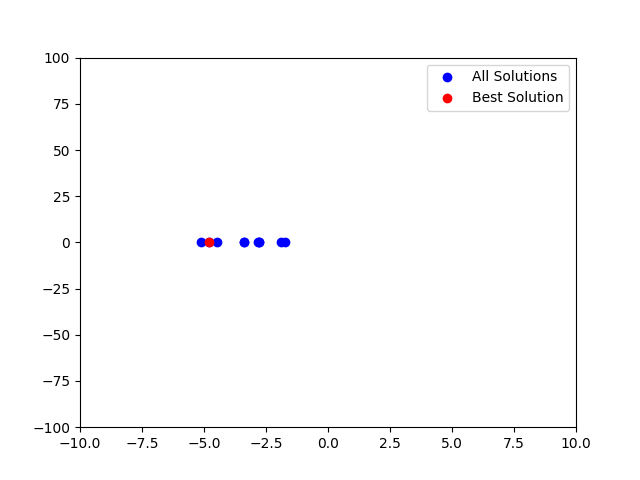
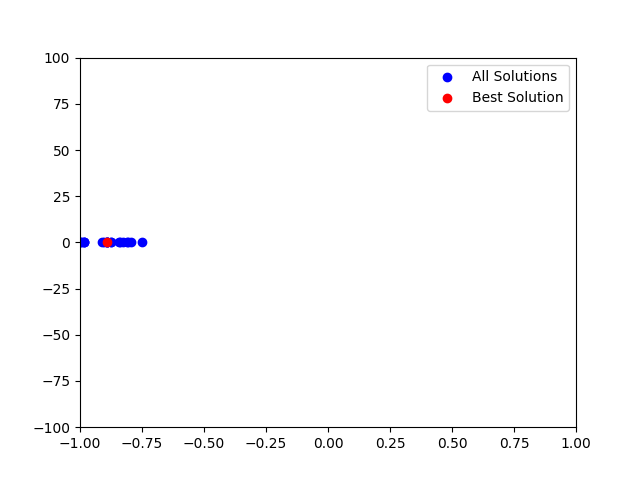
Fixed the Logging Issue
Fixed the output logging issue, tried changing best solution to the one with lower solution value, however it is only better at reconstruction of image, after rescaling it is worse

diff --git a/recursive_attack.py b/recursive_attack.py
@@ -25,11 +25,11 @@ def inverse_udldu(udldu):
         return loss
 
     # Define bounds to -100 and 100
-    bounds = [(-10, 10)]  # Adjusted bounds
+    bounds = [(-1, 1)]  # Adjusted bounds
 
     iteration_count = 0
-    min_iterations = 10
-    max_iterations = 100
+    min_iterations = 20
+    max_iterations = 1000
     convergence_iteration = None
 
     # Initialize the plot
@@ -42,9 +42,10 @@ def inverse_udldu(udldu):
 
     best_solution = None
     best_objective = float('inf')
+    best_solution_value = float('inf')  # Track the best solution based on value
 
     def callback_function(xk, convergence):
-        nonlocal iteration_count, convergence_iteration, best_solution, best_objective
+        nonlocal iteration_count, convergence_iteration, best_solution, best_objective, best_solution_value
         iteration_count += 1
         # print(f"Iteration: {iteration_count}")
         current_objective = objective_quantile(xk)
@@ -57,6 +58,13 @@ def inverse_udldu(udldu):
         if current_objective < best_objective:
             best_solution = xk
             best_objective = current_objective
+
+        # Update the best solution based on the current solution's absolute value
+        # In this approach the reconstructed image is better than the other approach (loss comparision), however it is worse after rescaling
+        # if abs(xk[0]) < best_solution_value:
+        #     best_solution = xk
+        #     best_solution_value = abs(xk[0])
+        #     best_objective = current_objective
 
 
         # Update the plot with the best solution
@@ -92,27 +100,6 @@ def inverse_udldu(udldu):
 
         return False
 
-        # def callback_function(xk, convergence):
-    #     nonlocal iteration_count
-    #     iteration_count += 1
-    #     print(f"Iteration: {iteration_count}")
-    #
-    #     # Update the plot with the best solution
-    #     ax.clear()
-    #     ax.set_xlim(bounds[0])
-    #     ax.set_ylim([-100, 100])  # Adjust as necessary for your specific problem
-    #     ax.scatter(xk[0], objective_quantile(xk), color='red', label='Best Solution')
-    #     ax.legend()
-    #     plt.pause(0.1)
-    #
-    #     # Print convergence status
-    #     if convergence:
-    #         print(f"Convergence reached at iteration {iteration_count}")
-    #         return True  # Stop the optimization if convergence is detected
-    #     elif iteration_count >= min_iterations:
-    #         return True  # Stop based on iteration count if convergence has not been reached
-    #
-    #     return False  # Continue optimization
 
     # Perform Differential Evolution optimization with updated population size
     # result = differential_evolution(objective_quantile, bounds, popsize=10, callback=callback_function, maxiter=max_iterations, polish=False, init='latinhypercube', updating='deferred')
@@ -145,6 +132,28 @@ def inverse_udldu(udldu):
     print(f"Plot saved as: {save_path}")
 
     return u_optimized
+
+       # def callback_function(xk, convergence):
+    #     nonlocal iteration_count
+    #     iteration_count += 1
+    #     print(f"Iteration: {iteration_count}")
+    #
+    #     # Update the plot with the best solution
+    #     ax.clear()
+    #     ax.set_xlim(bounds[0])
+    #     ax.set_ylim([-100, 100])  # Adjust as necessary for your specific problem
+    #     ax.scatter(xk[0], objective_quantile(xk), color='red', label='Best Solution')
+    #     ax.legend()
+    #     plt.pause(0.1)
+    #
+    #     # Print convergence status
+    #     if convergence:
+    #         print(f"Convergence reached at iteration {iteration_count}")
+    #         return True  # Stop the optimization if convergence is detected
+    #     elif iteration_count >= min_iterations:
+    #         return True  # Stop based on iteration count if convergence has not been reached
+    #
+    #     return False  # Continue optimization
 
 def peeling(in_shape, padding):
     if padding == 0:

diff --git a/main.py b/main.py
@@ -4,6 +4,7 @@ import os
 import yaml
 import matplotlib.pyplot as plt
 import time
+import sys
 import logging
 from utils import *
 from models import CNN6, CNN6d, FCN3
@@ -20,13 +21,46 @@ parser.add_argument("-m", "--model", help="Network architecture.", choices=["CNN
 args = parser.parse_args()
 setup = {'device': 'cpu', 'dtype': torch.float32}
 #setup = {'device': torch.device('cuda' if torch.cuda.is_available() else 'cpu'), 'dtype': torch.float32}
+
+class DualStreamHandler:
+    def __init__(self, file_path):
+        self.file = open(file_path, 'w')
+        self.terminal = sys.stdout
+
+    def write(self, message):
+        # Write to the terminal
+        self.terminal.write(message)
+        self.terminal.flush()  # Ensure it's immediately written to the terminal
+
+        # Write to the log file
+        self.file.write(message)
+        self.file.flush()  # Ensure it's immediately written to the file
+
+    def flush(self):
+        # Flush both streams
+        self.terminal.flush()
+        self.file.flush()
+
+# Set up logging
+logging.basicConfig(
+    level=logging.INFO,
+    format='%(asctime)s - %(levelname)s - %(message)s'
+)
+logger = logging.getLogger()
+
+# Create and install the custom handler
+log_file_path = 'Plots/output.txt'
+dual_handler = DualStreamHandler(log_file_path)
+sys.stdout = dual_handler
+
+# Your program starts here
+with open("config.yaml", 'r') as stream:
+    config = yaml.safe_load(stream)
+
 print(f'Running on {setup["device"]}, PyTorch version {torch.__version__}')
 
 
 start_time = time.time()
-
-# Configure logging
-logging.basicConfig(filename='Plots/output.txt', level=logging.INFO, format='%(asctime)s - %(levelname)s - %(message)s')
 
 def main():
     train_sample, test_sample = dataloader(dataset=args.dataset, mode="attack", index=args.index,
@@ -151,3 +185,7 @@ if __name__ == "__main__":
     main()
 
 print("--- %s seconds ---" % (time.time()- start_time))
+
+# Reset stdout to terminal and close the log file at the end
+sys.stdout = sys.__stdout__
+dual_handler.file.close()

diff --git a/ssim.py b/ssim.py
@@ -29,7 +29,7 @@ def compare_images(imageA, imageB, title):
 
 
 # Loading the images - Original, R-Gap Version, Evol-RGap version
-original = cv2.imread("images_compare/evol52.png")
+original = cv2.imread("images_compare/evol5.png")
 rgapimg = cv2.imread("images_compare/evol52re.png")
 evolimg = cv2.imread("images_compare/rescale_reconstructed.png")
 
